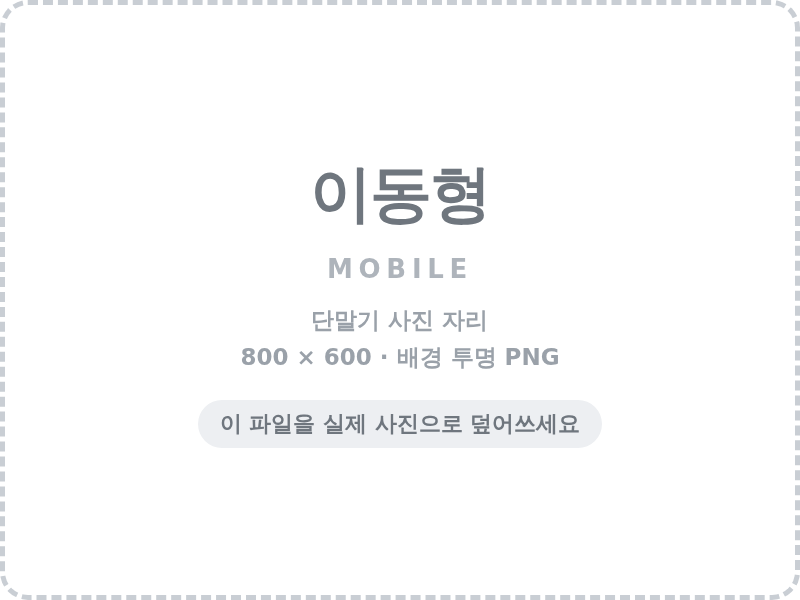
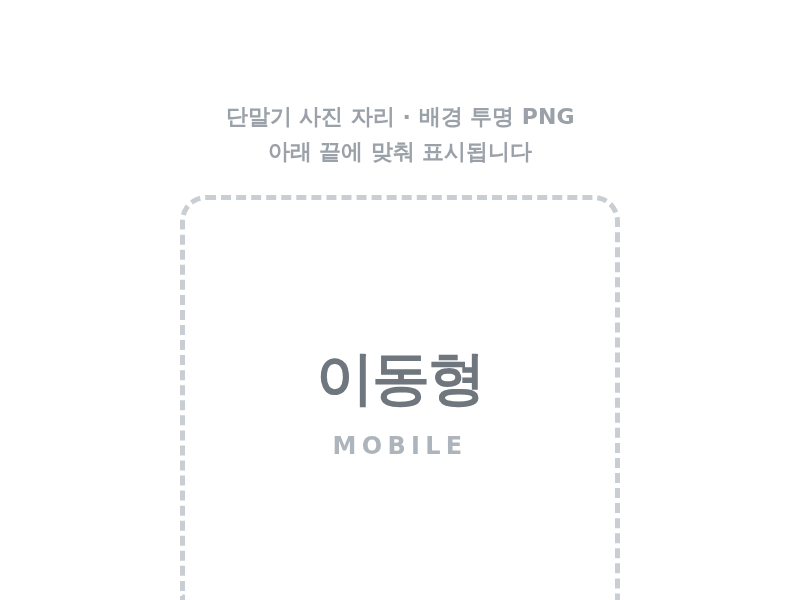
수량을 스테퍼로, 사진은 띠 바닥에 붙여 잘림이 드러나지 않게
수량
- 전체 폭 입력칸이 수량치고 자리를 너무 많이 차지했다. − 1 + 스테퍼로 바꿔
  카드 오른쪽에 붙인다. 선택 시 늘어나는 높이가 60px에서 48px로 줄고,
  몇 대 수준이면 키보드를 열지 않고 눌러서 맞추는 편이 빠르다
- 숫자는 그대로 입력할 수도 있고, 1에서는 −, 999에서는 +가 비활성된다
- 버튼이 카드 선택 레이블 바깥이라 눌러도 선택이 풀리지 않는다

사진
- 제품컷은 흔히 아래가 잘린 채로 온다. 사진 영역을 카드 폭을 꽉 채우는 띠로
  두고 사진을 그 바닥에 붙여(object-position:center bottom) '잘린' 게 아니라
  '놓여 있는' 것으로 읽히게 했다
- 띠 높이를 고정해 비율이 다른 사진이 섞여도 세 카드의 사진 크기가 맞는다.
  가로로 넓은 컷도 잘리지 않고 통째로 들어간다
- .dev-media가 span이라 인라인이었고 높이 지정이 먹지 않던 것을 함께 수정
- placeholder와 README를 새 정렬 기준에 맞게 갱신

Claude-Session: https://claude.ai/code/session_019LFvBESJzbJayQtszH2MSo

diff --git a/quote.html b/quote.html
@@ -166,7 +166,7 @@ body.quote-page{
 .dev-card{display:flex;flex-direction:column;border:1px solid var(--line);border-radius:8px;background:var(--main-white);transition:border-color .15s,background .15s}
 .dev-card:hover{border-color:#C6CBD1}
 .dev-card.is-on{border-color:var(--accent);background:var(--accent-tint)}
-.dev-pick{position:relative;display:block;flex:1;padding:16px 16px 15px;cursor:pointer}
+.dev-pick{position:relative;display:block;flex:1;padding:0 16px 15px;cursor:pointer}
 .dev-pick input{position:absolute;opacity:0;width:0;height:0}
 /* 체크 표시 없이 카드 자체로 선택을 알린다. 색만으로 구분되지 않도록 테두리를
    두 겹으로 겹쳐 굵기까지 달라지게 했다(레이아웃은 밀리지 않는다).
@@ -175,16 +175,26 @@ body.quote-page{
 /* 체크 표시가 없어졌으니 키보드 포커스는 카드에 표시한다 */
 .dev-card:has(.dev-pick input:focus-visible){outline:2px solid var(--accent);outline-offset:2px}
 /* 사진 자리 — 배경을 비워 선택 시 카드 틴트가 그대로 비치게 한다 */
-.dev-media{display:flex;align-items:center;justify-content:center;width:100%;aspect-ratio:4/3;margin-bottom:10px;overflow:hidden}
-.dev-media img{max-width:100%;max-height:100%;width:auto;height:auto;object-fit:contain;display:block}
+/* 사진 자리 — 카드 폭을 꽉 채우는 띠로 두고, 사진은 그 바닥에 붙인다.
+   제품컷은 흔히 아래가 잘린 채로 오는데, 바닥에 붙여야 '잘린' 게 아니라
+   '놓여 있는' 것으로 읽힌다. 높이를 고정해 세 카드의 사진 크기도 맞춘다. */
+.dev-media{display:block;width:calc(100% + 32px);height:124px;margin:0 -16px 12px;background:var(--fill);border-radius:7px 7px 0 0;overflow:hidden}
+.dev-media img{width:100%;height:100%;object-fit:contain;object-position:center bottom;display:block}
 .dev-name{display:block;font-size:15px;font-weight:800;letter-spacing:-.035em;color:var(--ink);line-height:1.35}
 .dev-desc{display:block;margin-top:3px;font-size:12.5px;font-weight:500;color:var(--ink-3);line-height:1.55;word-break:keep-all}
-.dev-qty{display:none;padding:0 14px 14px}
-.dev-card.is-on .dev-qty{display:block}
-.dev-qty .field{height:46px;cursor:text}
-.dev-qty .f-label{flex:none;font-size:13px;font-weight:600;color:var(--ink-3)}
-.dev-qty .field:focus-within .f-label{color:var(--field-ink)}
-@media(max-width:860px){.dev-grid{grid-template-columns:1fr}.dev-pick{padding:15px 16px 14px}.dev-desc{margin-top:2px}}
+.dev-qty{display:none;align-items:center;gap:8px;padding:0 14px 14px}
+.dev-card.is-on .dev-qty{display:flex}
+.dev-qty .qty-lb{font-size:13px;font-weight:600;color:var(--ink-3)}
+/* 수량 스테퍼 — 대부분 몇 대 수준이라 전체 폭 입력칸 대신 눌러서 맞추는 컨트롤 */
+.stepper{margin-left:auto;display:inline-flex;align-items:center;height:34px;background:var(--main-white);border:1px solid var(--line);border-radius:4px;overflow:hidden;transition:border-color .15s}
+.stepper:focus-within{border-color:var(--field-ink)}
+.stepper button{width:30px;height:100%;display:flex;align-items:center;justify-content:center;padding:0;border:0;background:none;color:var(--ink-2);font-size:15px;line-height:1;cursor:pointer;transition:background .15s,color .15s}
+.stepper button:hover:not(:disabled){background:var(--fill);color:var(--ink)}
+.stepper button:disabled{color:#CDD2D8;cursor:default}
+.stepper button:focus-visible{outline:2px solid var(--accent);outline-offset:-2px}
+.stepper input{width:40px;height:100%;padding:0;border:0;border-left:1px solid var(--line);border-right:1px solid var(--line);background:none;outline:0;font:inherit;font-size:14px;font-weight:700;color:var(--field-ink);text-align:center;font-variant-numeric:tabular-nums;-moz-appearance:textfield}
+.stepper input::-webkit-outer-spin-button,.stepper input::-webkit-inner-spin-button{-webkit-appearance:none;margin:0}
+@media(max-width:860px){.dev-grid{grid-template-columns:1fr}.dev-pick{padding:0 16px 14px}.dev-desc{margin-top:2px}}
 
 /* ===== 견적 요약 (영수증) ===== */
 /* 홈페이지 공통 헤더(고정형) 아래에 붙도록 --header-height 만큼 내려둔다.
@@ -391,11 +401,12 @@ body.quote-page{
               <span class="dev-desc">출입구에 고정 설치. 상시 출입 통제가 필요한 현장.</span>
             </label>
             <div class="dev-qty">
-              <label class="field" for="q-qty-W400">
-                <span class="f-label">수량</span>
+              <label class="qty-lb" for="q-qty-W400">수량</label>
+              <div class="stepper">
+                <button type="button" data-step="-1" aria-label="벽부형 수량 줄이기">−</button>
                 <input id="q-qty-W400" type="number" name="qty_W400" min="1" max="999" step="1" value="1" inputmode="numeric" aria-label="벽부형 수량">
-                <span class="f-unit">대</span>
-              </label>
+                <button type="button" data-step="1" aria-label="벽부형 수량 늘리기">+</button>
+              </div>
             </div>
           </div>
 
@@ -408,11 +419,12 @@ body.quote-page{
               <span class="dev-desc">케이스형으로 현장 간 이동 설치. 위치가 바뀌는 현장.</span>
             </label>
             <div class="dev-qty">
-              <label class="field" for="q-qty-M400">
-                <span class="f-label">수량</span>
+              <label class="qty-lb" for="q-qty-M400">수량</label>
+              <div class="stepper">
+                <button type="button" data-step="-1" aria-label="이동형 수량 줄이기">−</button>
                 <input id="q-qty-M400" type="number" name="qty_M400" min="1" max="999" step="1" value="1" inputmode="numeric" aria-label="이동형 수량">
-                <span class="f-unit">대</span>
-              </label>
+                <button type="button" data-step="1" aria-label="이동형 수량 늘리기">+</button>
+              </div>
             </div>
           </div>
 
@@ -425,11 +437,12 @@ body.quote-page{
               <span class="dev-desc">들고 다니며 태그. 소규모·분산 현장이나 순회 점검.</span>
             </label>
             <div class="dev-qty">
-              <label class="field" for="q-qty-T900">
-                <span class="f-label">수량</span>
+              <label class="qty-lb" for="q-qty-T900">수량</label>
+              <div class="stepper">
+                <button type="button" data-step="-1" aria-label="휴대형 수량 줄이기">−</button>
                 <input id="q-qty-T900" type="number" name="qty_T900" min="1" max="999" step="1" value="1" inputmode="numeric" aria-label="휴대형 수량">
-                <span class="f-unit">대</span>
-              </label>
+                <button type="button" data-step="1" aria-label="휴대형 수량 늘리기">+</button>
+              </div>
             </div>
           </div>
         </div>
@@ -852,6 +865,27 @@ form.addEventListener('change', function(e){
   if (v < min) el.value = min;
   if (v > max) el.value = max;
   render();
+});
+
+/* 수량 스테퍼 */
+document.querySelectorAll('.stepper').forEach(function(st){
+  var input = st.querySelector('input');
+  var dn = st.querySelector('[data-step="-1"]'), up = st.querySelector('[data-step="1"]');
+  function sync(){
+    var v = parseInt(input.value, 10) || 1;
+    dn.disabled = v <= 1;
+    up.disabled = v >= 999;
+  }
+  st.addEventListener('click', function(e){
+    var btn = e.target.closest('button[data-step]');
+    if (!btn) return;
+    var v = (parseInt(input.value, 10) || 1) + Number(btn.getAttribute('data-step'));
+    input.value = Math.min(999, Math.max(1, v));
+    input.dispatchEvent(new Event('input', { bubbles: true }));   /* 폼 input → 재계산 */
+    sync();
+  });
+  input.addEventListener('input', sync);
+  sync();
 });
 
 /* 카드를 고르면 그 카드의 수량으로 포커스 이동 */

diff --git a/images/card-reader/README.md b/images/card-reader/README.md
@@ -11,9 +11,12 @@
 
 ## 권장 사양
 
-- **크기** 800 × 600 (4:3). 카드가 좁아도 `object-fit: contain`으로 비율을 지켜 줄이므로 더 커도 됩니다.
-- **형식** 배경이 투명한 PNG. 카드를 선택하면 배경이 옅은 파랑으로 바뀌는데, 투명이어야 그 색이 사진 뒤로 비칩니다.
-- **여백** 단말기가 프레임에 꽉 차지 않도록 사방에 약간 여백을 두세요. 오른쪽 위에 선택 체크 표시가 얹힙니다.
+- **크기** 800 × 600 (4:3) 권장. 비율은 자유이며 잘리지 않고 통째로 들어갑니다.
+- **형식** 배경이 투명한 PNG. 카드 안 사진 띠가 옅은 회색이라 투명이어야 자연스럽게 얹힙니다.
+- **정렬** 사진은 띠의 **아래 끝에 맞춰** 표시됩니다. 제품컷은 흔히 아래가 잘린 채로 오는데,
+  바닥에 붙으면 '잘린' 게 아니라 '놓여 있는' 것으로 읽힙니다. 단말기가 프레임 아래쪽에 닿도록
+  잡아주시면 가장 자연스럽습니다.
+- **좌우 여백** 띠 폭에 맞춰 줄어드니 좌우에는 약간 여백을 두세요.
 - **구도** 3장의 촬영 각도와 크기를 맞추면 카드가 나란히 놓였을 때 정돈돼 보입니다.
 
 파일명을 바꾸려면 `quote.html`의 `.dev-media img` 세 곳에 있는 `src`도 함께 고쳐야 합니다.
